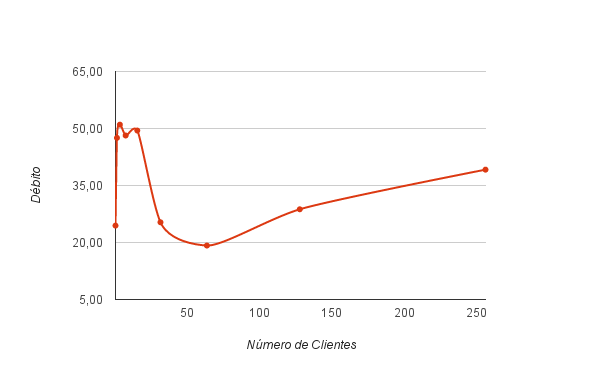
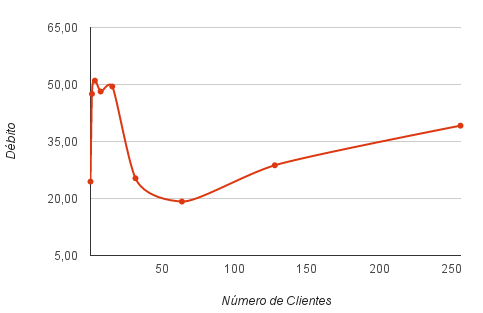
add images to tex

diff --git a/testes.tex b/testes.tex
@@ -2,6 +2,10 @@
 
 \paragraphnl{Resultados obtidos}
 
+São apresentados em seguida sob a forma de uma tabela e de um gráfico os dados recolhidos para a configuração do serviço com um servidor web, nomeadamente o número de pedidos por segundos (débito) e a percentagem de pedidos falhados.
+
+\begin{table}[!h]
+\centering
 \begin{tabular}{|c|c|c|}
 \hline
 \textbf{\# Clientes} & \textbf{Pedidos/s} & \textbf{\% Pedidos Falhados} \\ \hline
@@ -14,6 +18,14 @@
 64 & 17.76 & 0 \\ \hline
 128 & 12.28 & 23 \\ \hline
 \end{tabular}
+\caption{Tabela com débito e percentagem de pedidos falhados em função do número de clientes (1 Web Server)}
+\end{table}
+
+\begin{figure}[!h]
+\centering
+\includegraphics[scale=.6]{img/ab/web1.png}
+\caption{Débito obtido de acordo com o número de clientes (1 Web Server)}
+\end{figure}
 
 \paragraphnl{Análise dos resultados anteriores}
 kjjkgh

diff --git a/relatorio.tex b/relatorio.tex
@@ -14,32 +14,38 @@
 {gobble=0,frame=single}
 \fvset{fontsize=\normalsize}
 
+\DefineVerbatimEnvironment
+{MyVerbatims}{Verbatim}
+{gobble=0,frame=single}
+\fvset{fontsize=\scriptsize}
+
 \begin{document}
 
-\input{capa.tex}
+% \input{capa.tex}
 
-\input{resumo}
+% \input{resumo}
 
-\newpage
-\tableofcontents
+% \newpage
+% \tableofcontents
 
-\newpage
-\input{introducao}
+% \newpage
+% \input{introducao}
 
-\newpage
-\input{equipamentos}
+% \newpage
+% \input{equipamentos}
 
-\newpage
-\input{corpo.tex}
+% \newpage
+% \input{corpo.tex}
 
-\newpage
-\input{config/base-server}
+% \newpage
+% \input{config/base-server}
 
-\newpage
-\input{config/web-server}
+% \newpage
+% \input{config/web-server}
 
-\newpage
-\input{conclusao.tex}
+% \newpage
+% \input{conclusao.tex}
+
 
 \newpage
 \input{testes.tex}

diff --git a/anexos.tex b/anexos.tex
@@ -1,1 +1,21 @@
 \section{Anexos}
+
+\begin{figure}[!hbt]
+\begin{MyVerbatims}
+#!/bin/bash
+
+echo "Init benchmark.."
+echo
+
+for i in 1 2 4 8 16 32 64 128 256 512; do
+  echo "i = $i"
+  (ab -n $i -c $i http://192.168.73.49:8080/render?target=local.icd.x&format=json) | \
+  egrep -i "failed|requests per second"
+  echo
+done
+
+echo
+echo "End"
+\end{MyVerbatims}
+\caption{Script Benchmark}
+\end{figure}
